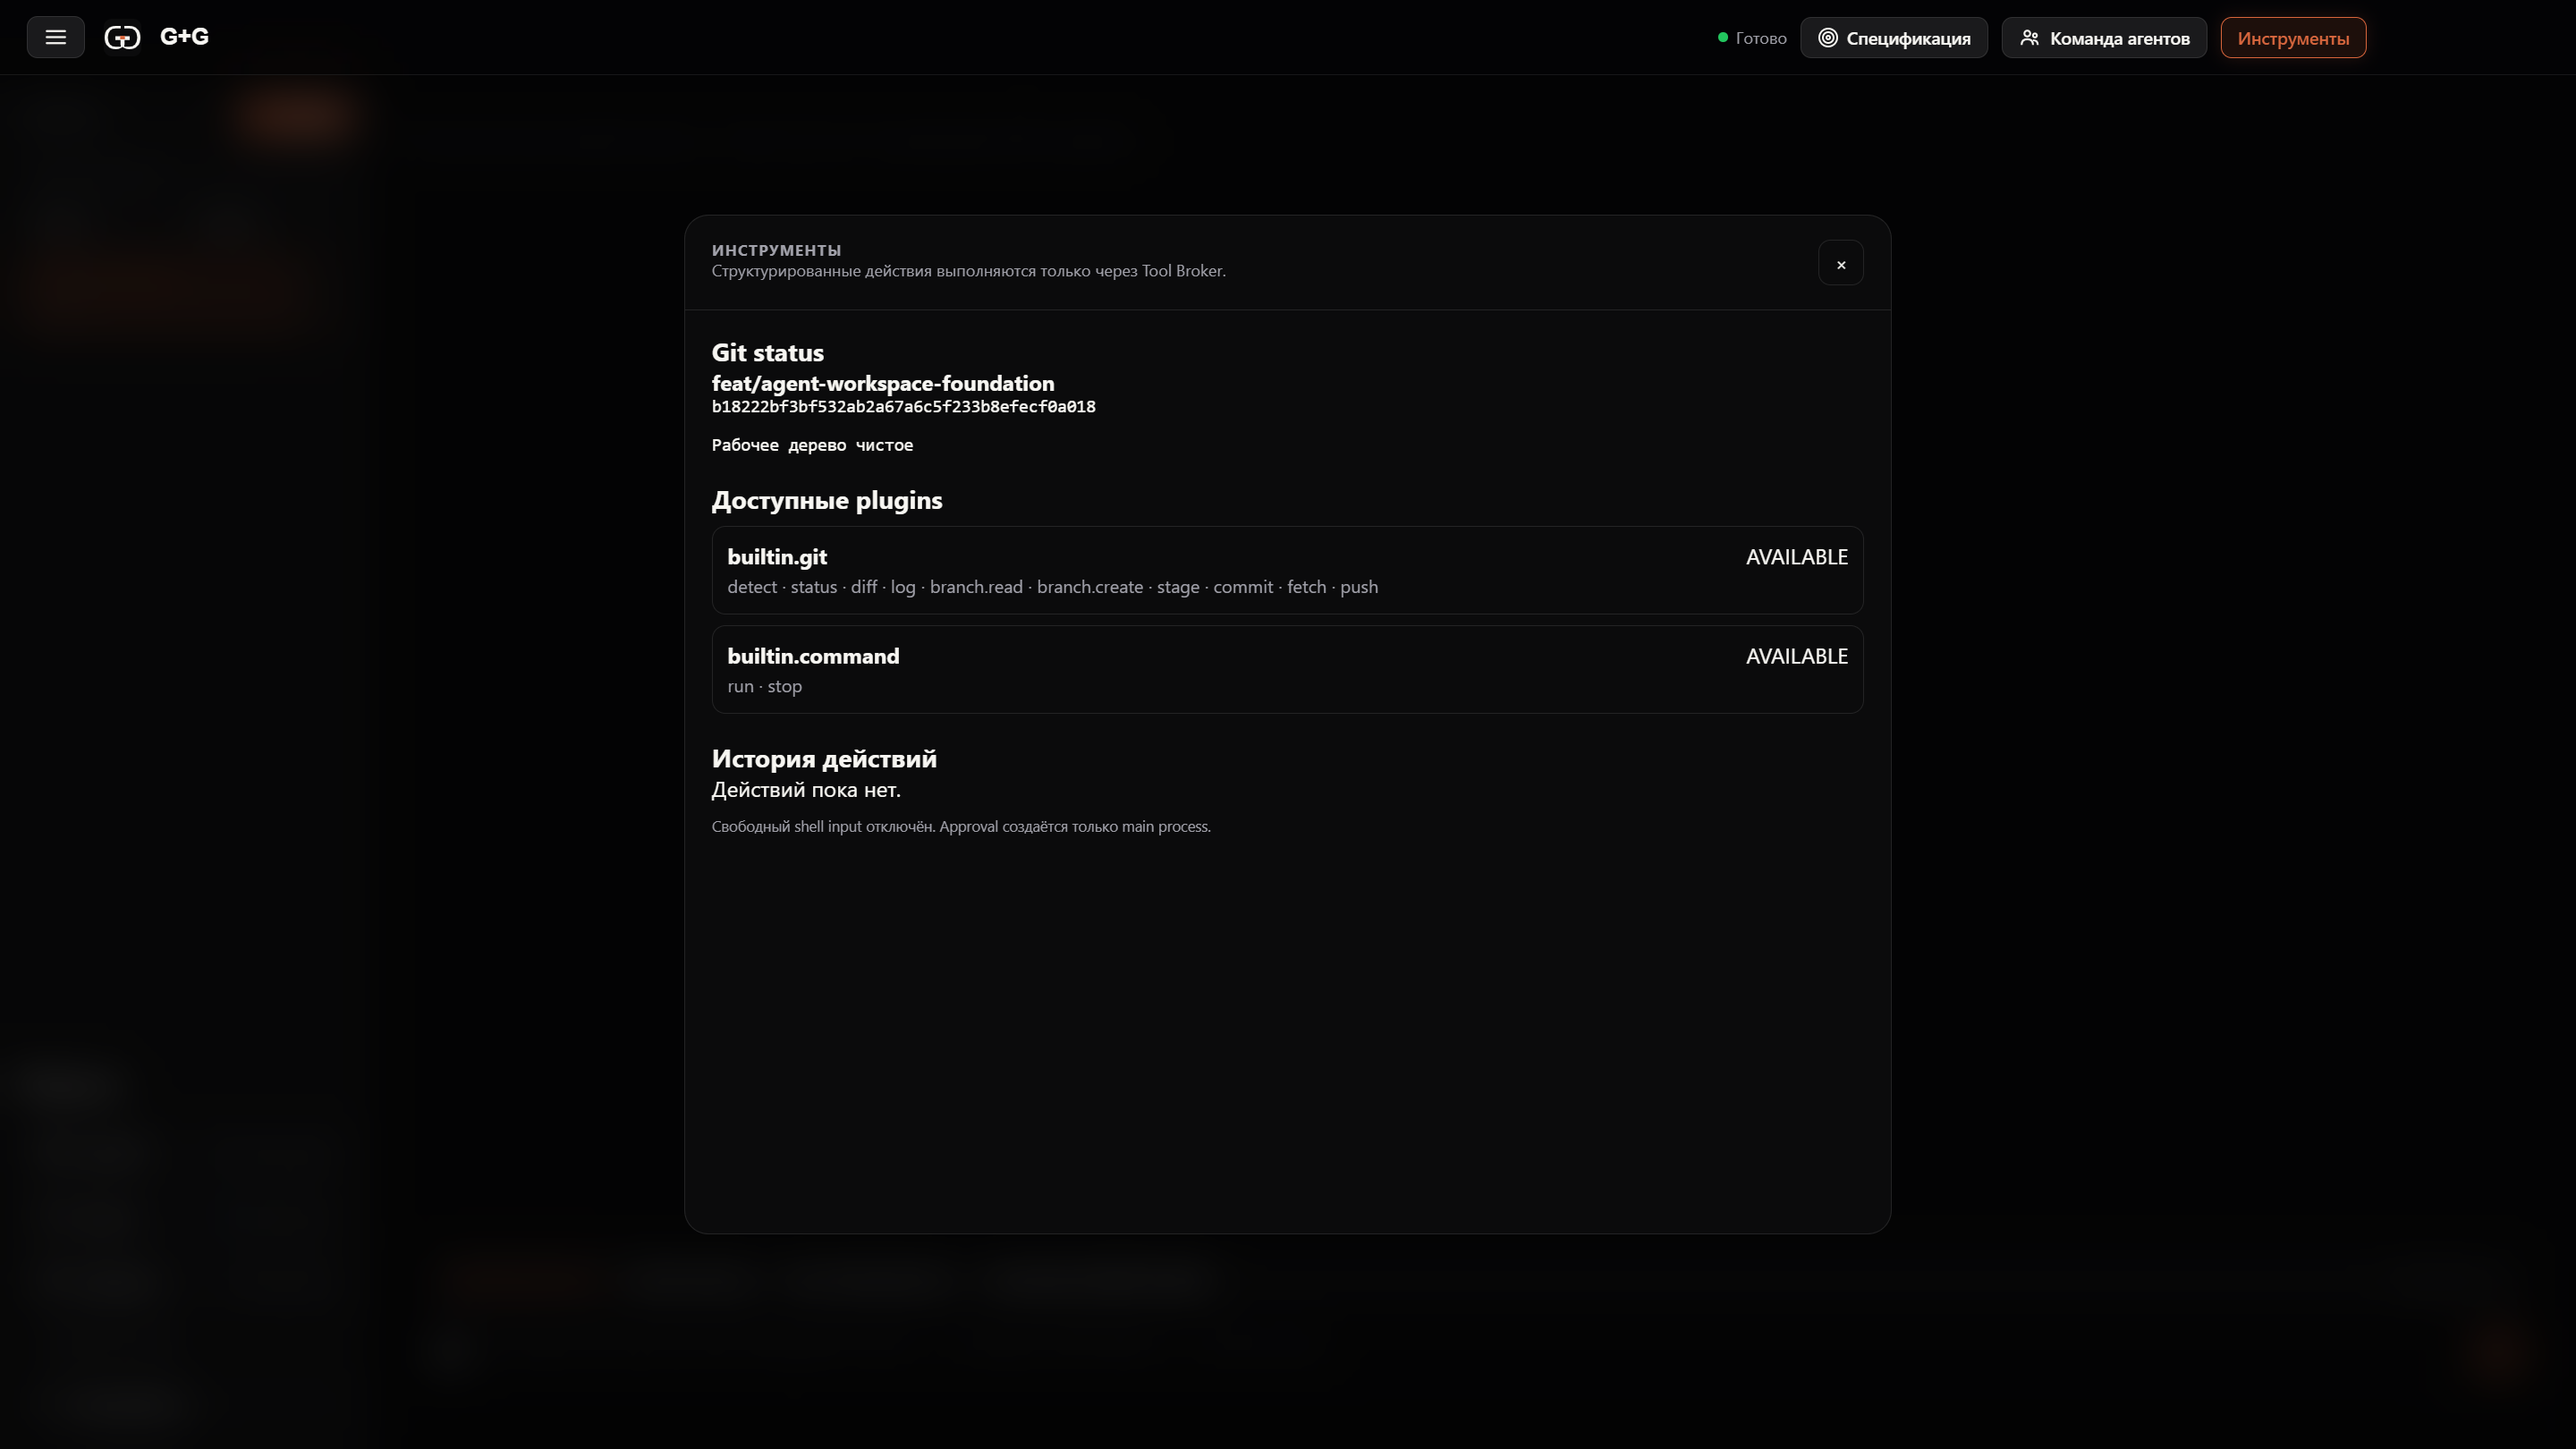
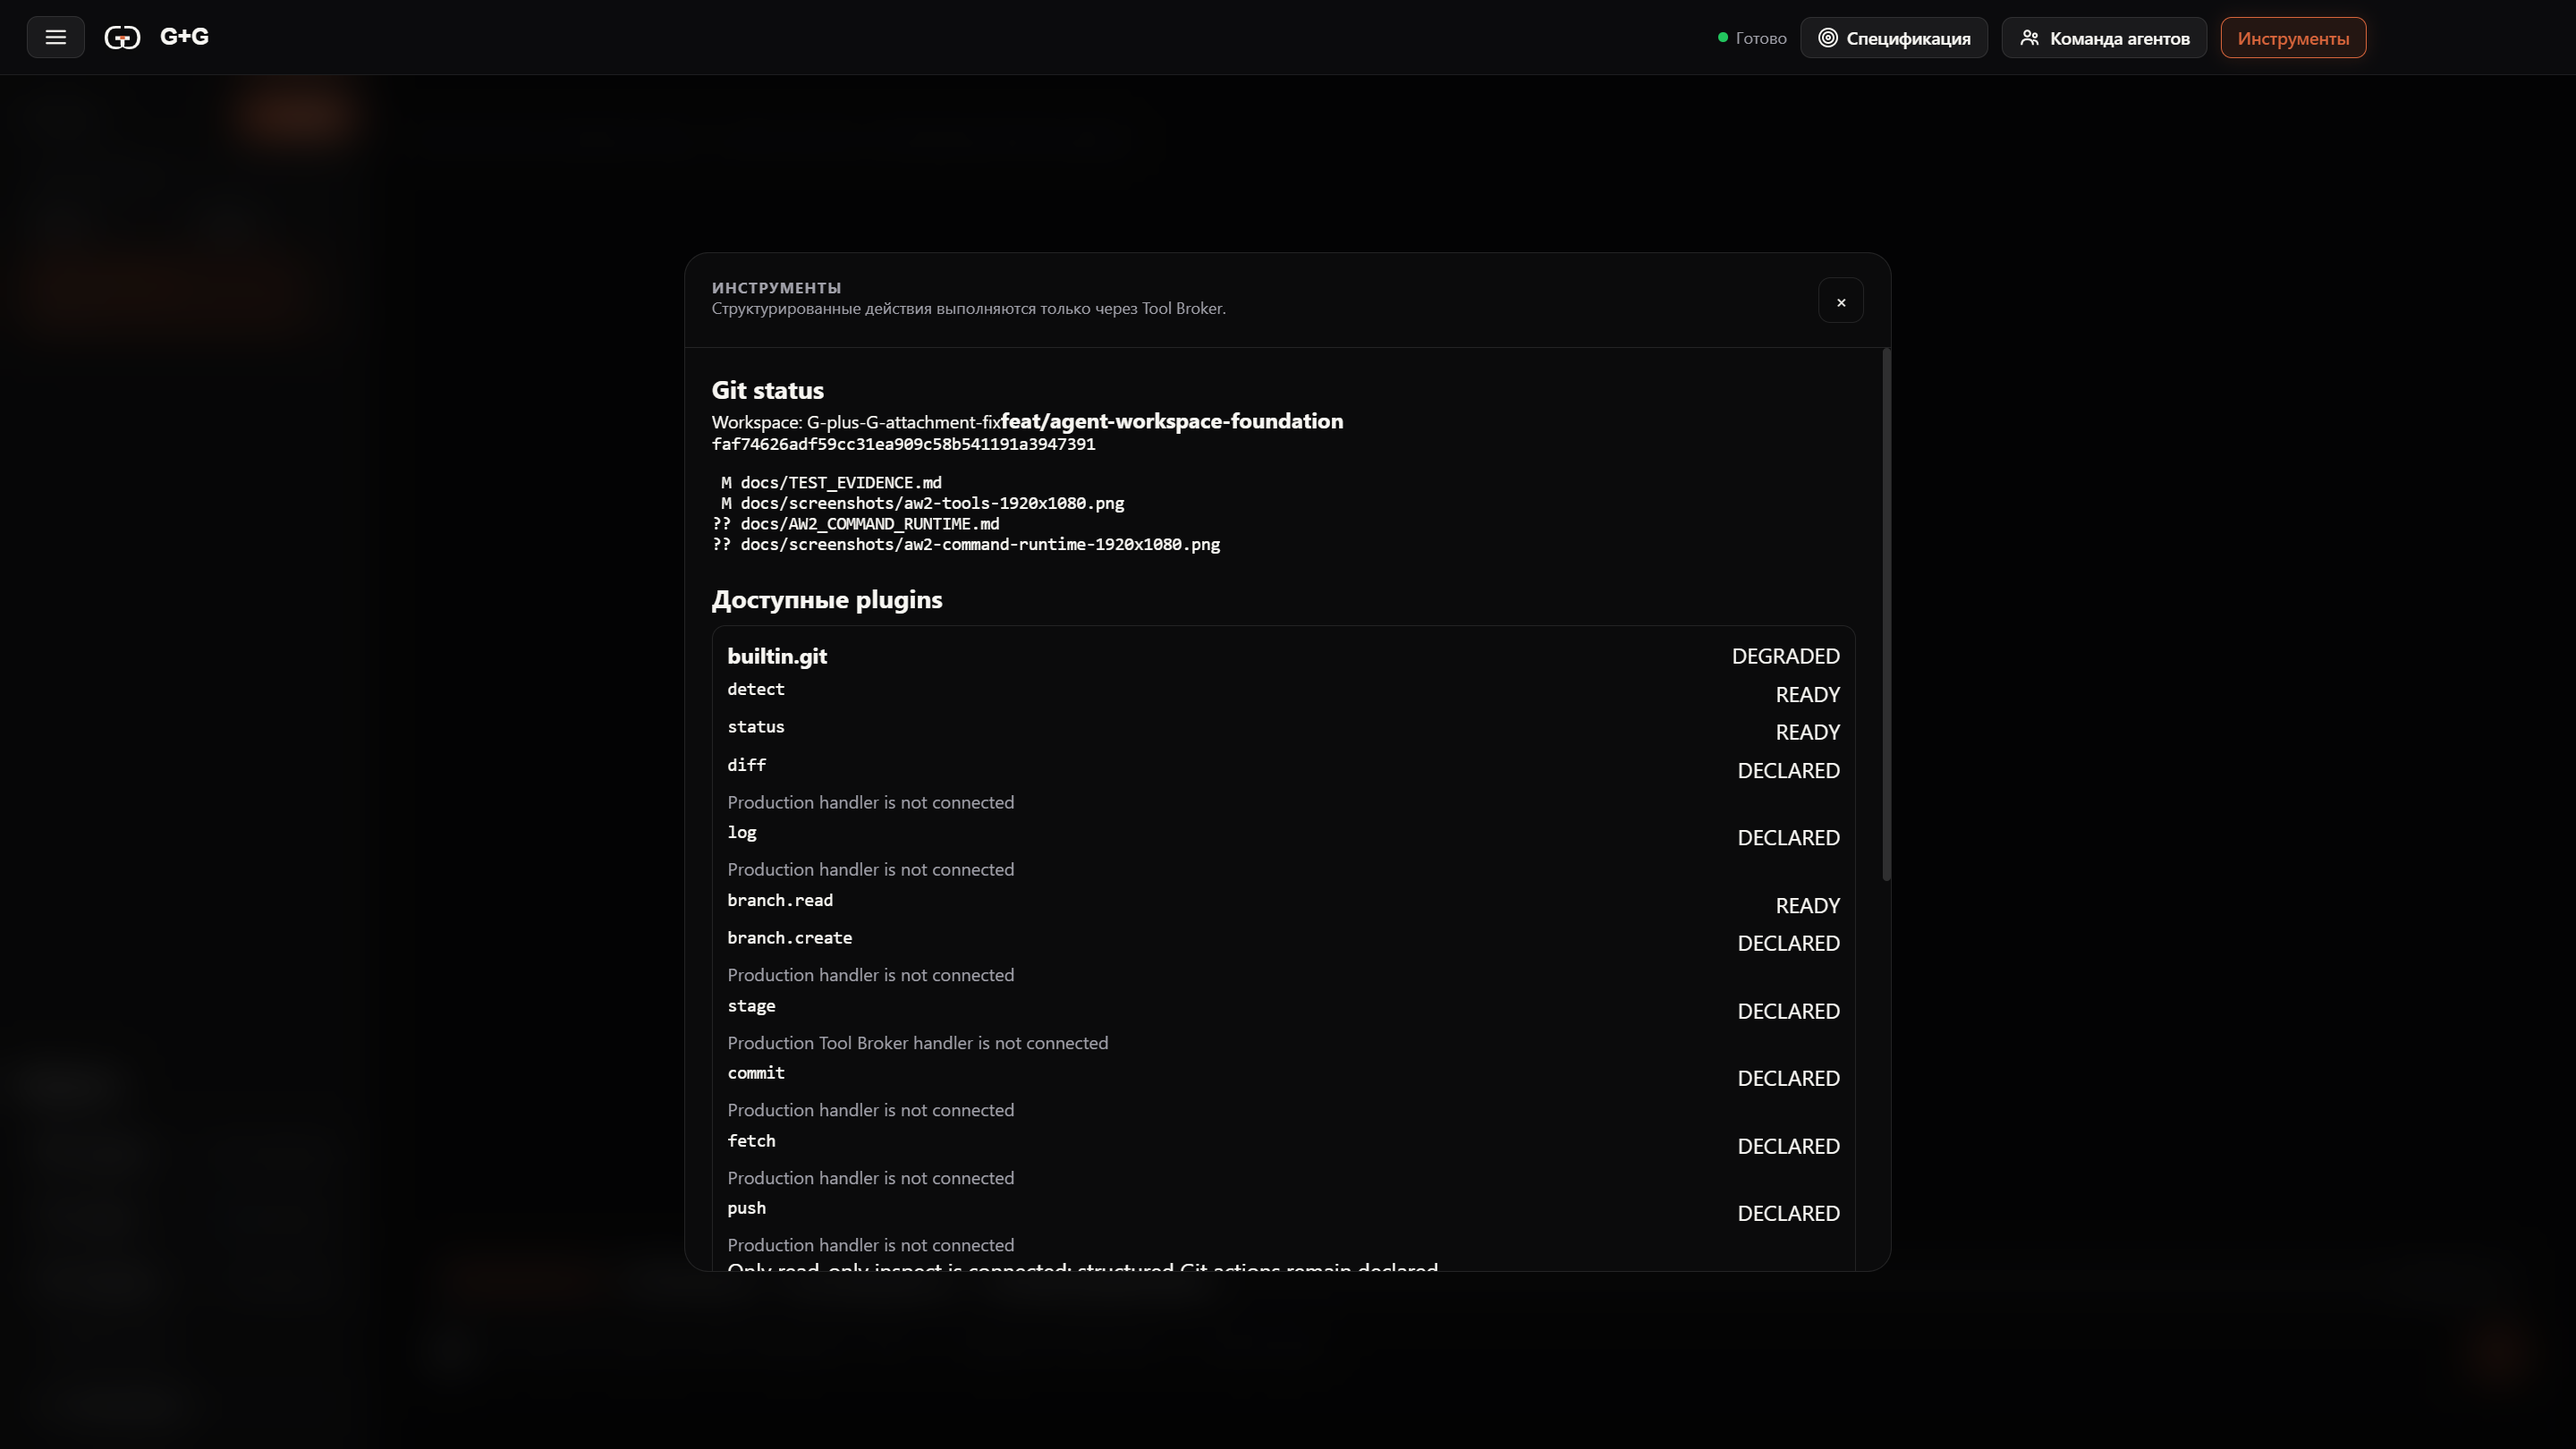
docs(tools): record command runtime evidence

diff --git a/docs/AW2_COMMAND_RUNTIME.md b/docs/AW2_COMMAND_RUNTIME.md
@@ -1,0 +1,69 @@
+# AW-2 command runtime evidence
+
+Status: `AW_2_COMMAND_RUNTIME_PASS / AW_2_GIT_RUNTIME_INCOMPLETE`
+
+Date: 2026-11-05  
+Branch: `feat/agent-workspace-foundation`
+
+## Connected production flow
+
+The Electron application now exercises one bounded command action through the production path:
+
+`propose -> validate -> main-process approval/policy -> queue -> execute -> stream -> verify -> persist`
+
+- The renderer can select only a predefined command preset. It cannot provide an executable, raw shell text, environment, approval token, or approval decision.
+- The main process owns the native approval dialog and single-use approval capability.
+- Execution uses `shell: false`, an executable allowlist, canonical workspace validation, an environment allowlist, bounded/redacted output, timeout, and Windows process-tree termination.
+- Action state, scoped events, exit code, duration, failure code, output summary, and successful evidence are stored in SQLite.
+- Startup converts unfinished `RUNNING`/`VERIFYING` actions to `INTERRUPTED` and records an immutable interruption event.
+- Renderer event consumption is scoped by `projectId + taskId + agentInstanceId + workspaceId`; events from a previously selected project are discarded.
+
+This is a constrained host process with the permissions of the application. It is not a sandbox.
+
+## Capability truthfulness
+
+`builtin.command` is `READY` only because its production handler is connected.
+
+`builtin.git` is `DEGRADED`: only read-only repository inspection is connected to the production UI. Structured stage, commit, fetch, push, branch creation, diff, and log actions remain `DECLARED` until their Tool Broker execution handlers exist. No full Git runtime pass is claimed.
+
+## Concurrency and lifecycle evidence
+
+- Writer exclusion is keyed by the canonical repository path, not a project-local workspace ID. Two projects pointing to the same repository cannot execute concurrent write actions.
+- Production Stop captures the spawned child PID, terminates the complete process tree, and proves that the child PID is gone before the fixture's five-second self-exit guard could fire.
+- The self-exit guard remains only a bounded crash-fixture safeguard; it is not used as proof for Stop cleanup.
+- The crash smoke terminates the complete Electron tree, relaunches against the same database, and observes the unfinished action as `INTERRUPTED` with its earlier history intact.
+- Duplicate idempotency keys return the original action and do not launch a second process.
+- Approval denial creates no process and is persisted in the action event history.
+
+## Verification
+
+| Check | Result |
+| --- | --- |
+| `npm run check` | PASS — 79 test files, 382 tests |
+| Focused command/broker/storage tests | PASS — 18 tests |
+| `npm run security:guard` | PASS — 124 production source files |
+| `npm run security:uat-observer` | PASS |
+| Electron production command smoke | PASS, natural exit code 0 |
+| Tools UI smoke | PASS, Git `DEGRADED`, raw terminal absent |
+| Derived artifact regression smoke | PASS |
+| Provider traffic | 0 |
+| `git diff --check` | PASS |
+
+Production smoke scenarios: streamed success, nonzero exit, timeout, Stop/process-tree cleanup, denial without launch, idempotent duplicate, restart interruption, history after restart, stale-event rejection, and truthful Git aggregate health.
+
+Screenshots at browser zoom 100%:
+
+- `docs/screenshots/aw2-command-runtime-1920x1080.png`
+- `docs/screenshots/aw2-tools-1920x1080.png`
+
+## Development-environment Git diagnostic
+
+The earlier non-escalated `git status`/`git diff` error was not repository corruption. Git trace resolved the linked worktree and common Git directory correctly, but the managed filesystem profile exposed the common `.git/worktrees/...` metadata as read-only. Status refresh needs metadata/index write access and failed with Git's misleading `this operation must be run in a work tree` message. The same commands succeeded unchanged when run with the approved worktree permission.
+
+During the interrupted edit, the new untracked `tests/command-runtime.test.ts` was left deleted. It was restored and now covers streaming/evidence, nonzero exit, timeout, Stop with child-PID termination, canonical cross-project writer locking, denial, deduplication, and restart interruption.
+
+## Remaining work
+
+- Connect Git actions to Tool Broker execution and verification before claiming `AW_2_RUNTIME_PASS`.
+- Add branch/dirty-tree policy, explicit staging ownership, commit evidence, divergence checks, network approval, and push protections to that runtime.
+- Do not start AW-3 from this checkpoint.

diff --git a/docs/TEST_EVIDENCE.md b/docs/TEST_EVIDENCE.md
@@ -1,5 +1,9 @@
 # Test evidence
 
+## AW-2 production command runtime — 2026-11-05
+
+See [`AW2_COMMAND_RUNTIME.md`](AW2_COMMAND_RUNTIME.md). The bounded command flow passed production Electron smoke and the full 382-test gate. Git remains truthfully `DEGRADED`; full Git execution is not claimed.
+
 Environment: Windows, Node 22.20.0, npm 11.16.0, lockfile v3.
 Cleanup SHA: `849f177`. Integration merge SHA: `e4723bf`.
 
